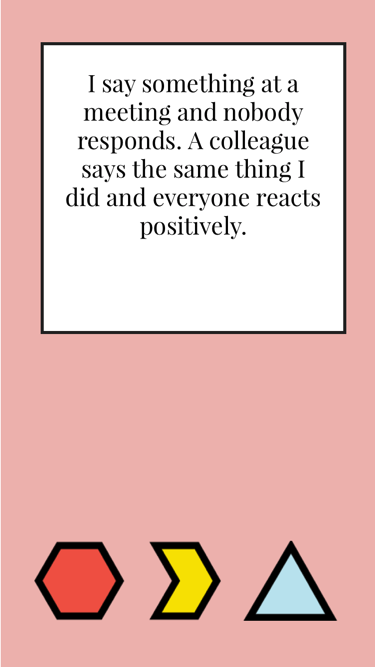
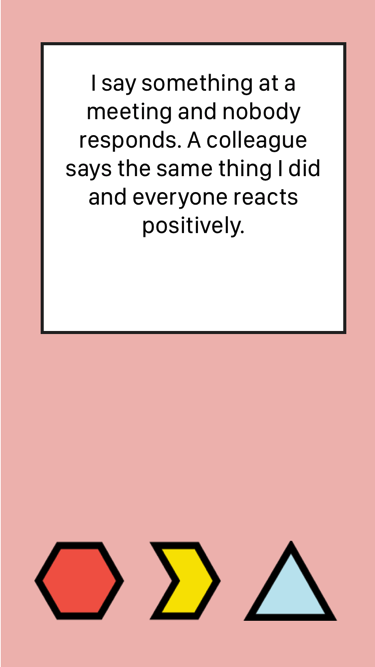
updates to framer

Changed region(s): [[0.176, 0.09, 0.8507, 0.3598]]

diff --git a/input.framer/framer/framer.vekter.js b/input.framer/framer/framer.vekter.js
@@ -1,1 +1,1 @@
-(function(scope) {var questionPage = new Layer({"height":667,"name":"questionPage","constraintValues":{"height":667,"heightFactor":1,"width":375,"widthFactor":1},"backgroundColor":"#EEB9B5","clip":true,"width":375});var option1 = new Layer({"parent":questionPage,"name":"option1","borderWidth":3,"backgroundColor":"#F0594A","width":66,"x":46,"borderColor":"#222","height":66,"constraintValues":{"left":46,"aspectRatioLocked":true,"height":66,"centerAnchorX":0.21066666666666667,"width":66,"bottom":52.609127034739913,"top":null,"centerAnchorY":0.87165048420578728},"blending":"normal","borderRadius":"100%","opacity":0,"clip":false,"borderStyle":"solid","y":548});var option2 = new Layer({"parent":questionPage,"name":"option2","borderWidth":3,"backgroundColor":"#F7E400","width":67,"x":148,"borderColor":"#222","height":67,"constraintValues":{"left":148,"aspectRatioLocked":true,"height":67,"centerAnchorX":0.48399999999999999,"width":67,"bottom":51.609127034739913,"top":null,"centerAnchorY":0.87240010939319357},"blending":"normal","opacity":0,"clip":false,"borderStyle":"solid","y":548});var option3 = new Layer({"parent":questionPage,"name":"option3","borderWidth":3,"backgroundColor":"#BFE5EF","width":55,"x":262,"borderColor":"#222","rotation":45,"height":55,"constraintValues":{"left":null,"aspectRatioLocked":true,"height":55,"centerAnchorX":0.77200000000000002,"width":55,"bottom":58.609127034739913,"right":58,"top":null,"centerAnchorY":0.87090085901838099},"blending":"normal","opacity":0,"clip":false,"borderStyle":"solid","y":553});var __layer_0__ = new Layer({"parent":questionPage,"name":"card","borderWidth":3,"backgroundColor":"hsl(0, 0%, 100%)","width":306,"x":40,"borderColor":"#222","height":292,"constraintValues":{"left":40,"height":292,"centerAnchorX":0.51466666666666672,"width":306,"right":29,"top":42,"centerAnchorY":0.2818590704647676},"blending":"normal","clip":false,"borderStyle":"solid","y":42});var questionText = new TextLayer({"parent":questionPage,"name":"questionText","backgroundColor":null,"width":258,"x":64,"styledText":{"blocks":[{"inlineStyles":[{"startIndex":0,"endIndex":69,"css":{"fontSize":"24px","WebkitTextFillColor":"rgb(0, 0, 0)","letterSpacing":"0px","fontWeight":400,"lineHeight":"1.2","tabSize":4,"fontFamily":"\"PlayfairDisplay-Regular\", \"Playfair Display\", serif"}}],"text":"I say something and the person responds to the person who is sitting "},{"inlineStyles":[{"startIndex":0,"endIndex":12,"css":{"fontSize":"24px","WebkitTextFillColor":"rgb(0, 0, 0)","letterSpacing":"0px","fontWeight":400,"lineHeight":"1.2","tabSize":4,"fontFamily":"\"PlayfairDisplay-Regular\", \"Playfair Display\", serif"}}],"text":"next to me. "}],"alignment":"center"},"height":254,"constraintValues":{"left":64,"height":254,"centerAnchorX":0.51466666666666672,"width":258,"right":53,"top":68,"centerAnchorY":0.29235382308845576},"blending":"normal","autoSize":false,"y":68});var __layer_1__ = new Layer({"parent":questionPage,"backgroundColor":null,"width":73,"x":148,"height":80,"constraintValues":{"left":148,"aspectRatioLocked":true,"height":80,"centerAnchorX":0.49199999999999999,"width":73,"bottom":46,"top":null,"centerAnchorY":0.8710644677661169},"blending":"normal","image":"images\/design\/3BXrNGTuisM83OSkhRaaVoI0MR1gzDIlnMoHbv5kmO4mLzfqSgfoVnv974JKYeJx1zNvhDYjxcjyEHR5TOg.png","clip":false,"borderStyle":"solid","y":541});var __layer_2__ = new Layer({"parent":questionPage,"backgroundColor":null,"width":92,"x":33,"height":80,"constraintValues":{"left":33,"aspectRatioLocked":true,"height":80,"centerAnchorX":0.21066666666666667,"width":92,"bottom":46,"top":null,"centerAnchorY":0.8710644677661169},"blending":"normal","image":"images\/design\/WXuHlmSSOZlL0ljoElmAbEa8JL3gPGyaZee4ZUbNo8og495c1TWnXZRQ8wCGMk3uo9RbQX1OGH3rDUShQ.png","clip":false,"borderStyle":"solid","y":541});var __layer_3__ = new Layer({"parent":questionPage,"backgroundColor":null,"width":95,"x":242,"height":80,"constraintValues":{"left":null,"aspectRatioLocked":true,"height":80,"centerAnchorX":0.77200000000000002,"width":95,"bottom":46,"right":38,"top":null,"centerAnchorY":0.8710644677661169},"blending":"normal","image":"images\/design\/iFxYZNPO5vsUID9aoloElBT79BmzhTnrSvaq6n9vomhhgCnawJxcp7JkKm7ZusQ5olxF7NZxoJW5wMIuUt7A.png","clip":false,"borderStyle":"solid","y":541});questionPage.__framerInstanceInfo = {"framerClass":"Layer","hash":"#vekter|questionPage","targetName":"questionPage","vekterClass":"FrameNode"};questionText.__framerInstanceInfo = {"framerClass":"TextLayer","hash":"#vekter|questionText","targetName":"questionText","vekterClass":"TextNode","text":"I say something and the person responds to the person who is sitting \nnext to me. "};option1.__framerInstanceInfo = {"framerClass":"Layer","hash":"#vekter|option1","targetName":"option1","vekterClass":"OvalNode"};__layer_1__.__framerInstanceInfo = {"originalFilename":"chev.png","framerClass":"Layer","hash":"#vekter|__layer_1__","vekterClass":"ImageNode"};__layer_2__.__framerInstanceInfo = {"originalFilename":"hex.png","framerClass":"Layer","hash":"#vekter|__layer_2__","vekterClass":"ImageNode"};option2.__framerInstanceInfo = {"framerClass":"Layer","hash":"#vekter|option2","targetName":"option2","vekterClass":"RectangleNode"};__layer_0__.__framerInstanceInfo = {"hash":"#vekter|__layer_0__","vekterClass":"RectangleNode","framerClass":"Layer"};__layer_3__.__framerInstanceInfo = {"originalFilename":"tri.png","framerClass":"Layer","hash":"#vekter|__layer_3__","vekterClass":"ImageNode"};option3.__framerInstanceInfo = {"framerClass":"Layer","hash":"#vekter|option3","targetName":"option3","vekterClass":"RectangleNode"};if (scope["__vekterVariables"]) { scope["__vekterVariables"].map(function(variable) { delete scope[variable] } ) };Object.assign(scope, {questionPage, option1, option2, option3, questionText});scope["__vekterVariables"] = ["questionPage", "option1", "option2", "option3", "questionText"];if (typeof Framer.CurrentContext.layout === 'function') {Framer.CurrentContext.layout()};})(window);
+(function(scope) {var questionPage = new Layer({"height":667,"name":"questionPage","constraintValues":{"height":667,"heightFactor":1,"width":375,"widthFactor":1},"backgroundColor":"#EEB9B5","clip":true,"width":375});var option1 = new Layer({"parent":questionPage,"name":"option1","borderWidth":3,"backgroundColor":"#F0594A","width":66,"x":46,"borderColor":"#222","height":66,"constraintValues":{"left":46,"aspectRatioLocked":true,"height":66,"centerAnchorX":0.21066666666666667,"width":66,"bottom":52.609127034739913,"top":null,"centerAnchorY":0.87165048420578728},"blending":"normal","borderRadius":"100%","opacity":0,"clip":false,"borderStyle":"solid","y":548});var option2 = new Layer({"parent":questionPage,"name":"option2","borderWidth":3,"backgroundColor":"#F7E400","width":67,"x":148,"borderColor":"#222","height":67,"constraintValues":{"left":148,"aspectRatioLocked":true,"height":67,"centerAnchorX":0.48399999999999999,"width":67,"bottom":51.609127034739913,"top":null,"centerAnchorY":0.87240010939319357},"blending":"normal","opacity":0,"clip":false,"borderStyle":"solid","y":548});var option3 = new Layer({"parent":questionPage,"name":"option3","borderWidth":3,"backgroundColor":"#BFE5EF","width":55,"x":262,"borderColor":"#222","rotation":45,"height":55,"constraintValues":{"left":null,"aspectRatioLocked":true,"height":55,"centerAnchorX":0.77200000000000002,"width":55,"bottom":58.609127034739913,"right":58,"top":null,"centerAnchorY":0.87090085901838099},"blending":"normal","opacity":0,"clip":false,"borderStyle":"solid","y":553});var __layer_0__ = new Layer({"parent":questionPage,"name":"card","borderWidth":3,"backgroundColor":"hsl(0, 0%, 100%)","width":306,"x":40,"borderColor":"#222","height":292,"constraintValues":{"left":40,"height":292,"centerAnchorX":0.51466666666666672,"width":306,"right":29,"top":42,"centerAnchorY":0.2818590704647676},"blending":"normal","clip":false,"borderStyle":"solid","y":42});var questionText = new TextLayer({"parent":questionPage,"name":"questionText","backgroundColor":null,"width":258,"x":64,"styledText":{"blocks":[{"inlineStyles":[{"startIndex":0,"endIndex":69,"css":{"fontSize":"24px","WebkitTextFillColor":"rgb(0, 0, 0)","letterSpacing":"0px","fontWeight":400,"lineHeight":"1.2","tabSize":4,"fontFamily":"\"SFCompactDisplay-Regular\", \".SFCompactDisplay-Regular\", serif"}}],"text":"I say something and the person responds to the person who is sitting "},{"inlineStyles":[{"startIndex":0,"endIndex":12,"css":{"fontSize":"24px","WebkitTextFillColor":"rgb(0, 0, 0)","letterSpacing":"0px","fontWeight":400,"lineHeight":"1.2","tabSize":4,"fontFamily":"\"SFCompactDisplay-Regular\", \".SFCompactDisplay-Regular\", serif"}}],"text":"next to me. "}],"alignment":"center"},"height":254,"constraintValues":{"left":64,"height":254,"centerAnchorX":0.51466666666666672,"width":258,"right":53,"top":68,"centerAnchorY":0.29235382308845576},"blending":"normal","autoSize":false,"y":68});var __layer_1__ = new Layer({"parent":questionPage,"backgroundColor":null,"width":73,"x":148,"height":80,"constraintValues":{"left":148,"aspectRatioLocked":true,"height":80,"centerAnchorX":0.49199999999999999,"width":73,"bottom":46,"top":null,"centerAnchorY":0.8710644677661169},"blending":"normal","image":"images\/design\/3BXrNGTuisM83OSkhRaaVoI0MR1gzDIlnMoHbv5kmO4mLzfqSgfoVnv974JKYeJx1zNvhDYjxcjyEHR5TOg.png","clip":false,"borderStyle":"solid","y":541});var __layer_2__ = new Layer({"parent":questionPage,"backgroundColor":null,"width":92,"x":33,"height":80,"constraintValues":{"left":33,"aspectRatioLocked":true,"height":80,"centerAnchorX":0.21066666666666667,"width":92,"bottom":46,"top":null,"centerAnchorY":0.8710644677661169},"blending":"normal","image":"images\/design\/WXuHlmSSOZlL0ljoElmAbEa8JL3gPGyaZee4ZUbNo8og495c1TWnXZRQ8wCGMk3uo9RbQX1OGH3rDUShQ.png","clip":false,"borderStyle":"solid","y":541});var __layer_3__ = new Layer({"parent":questionPage,"backgroundColor":null,"width":95,"x":242,"height":80,"constraintValues":{"left":null,"aspectRatioLocked":true,"height":80,"centerAnchorX":0.77200000000000002,"width":95,"bottom":46,"right":38,"top":null,"centerAnchorY":0.8710644677661169},"blending":"normal","image":"images\/design\/iFxYZNPO5vsUID9aoloElBT79BmzhTnrSvaq6n9vomhhgCnawJxcp7JkKm7ZusQ5olxF7NZxoJW5wMIuUt7A.png","clip":false,"borderStyle":"solid","y":541});questionPage.__framerInstanceInfo = {"framerClass":"Layer","hash":"#vekter|questionPage","targetName":"questionPage","vekterClass":"FrameNode"};questionText.__framerInstanceInfo = {"framerClass":"TextLayer","hash":"#vekter|questionText","targetName":"questionText","vekterClass":"TextNode","text":"I say something and the person responds to the person who is sitting \nnext to me. "};option1.__framerInstanceInfo = {"framerClass":"Layer","hash":"#vekter|option1","targetName":"option1","vekterClass":"OvalNode"};__layer_1__.__framerInstanceInfo = {"originalFilename":"chev.png","framerClass":"Layer","hash":"#vekter|__layer_1__","vekterClass":"ImageNode"};__layer_2__.__framerInstanceInfo = {"originalFilename":"hex.png","framerClass":"Layer","hash":"#vekter|__layer_2__","vekterClass":"ImageNode"};option2.__framerInstanceInfo = {"framerClass":"Layer","hash":"#vekter|option2","targetName":"option2","vekterClass":"RectangleNode"};__layer_0__.__framerInstanceInfo = {"hash":"#vekter|__layer_0__","vekterClass":"RectangleNode","framerClass":"Layer"};__layer_3__.__framerInstanceInfo = {"originalFilename":"tri.png","framerClass":"Layer","hash":"#vekter|__layer_3__","vekterClass":"ImageNode"};option3.__framerInstanceInfo = {"framerClass":"Layer","hash":"#vekter|option3","targetName":"option3","vekterClass":"RectangleNode"};if (scope["__vekterVariables"]) { scope["__vekterVariables"].map(function(variable) { delete scope[variable] } ) };Object.assign(scope, {questionPage, option1, option2, option3, questionText});scope["__vekterVariables"] = ["questionPage", "option1", "option2", "option3", "questionText"];if (typeof Framer.CurrentContext.layout === 'function') {Framer.CurrentContext.layout()};})(window);
